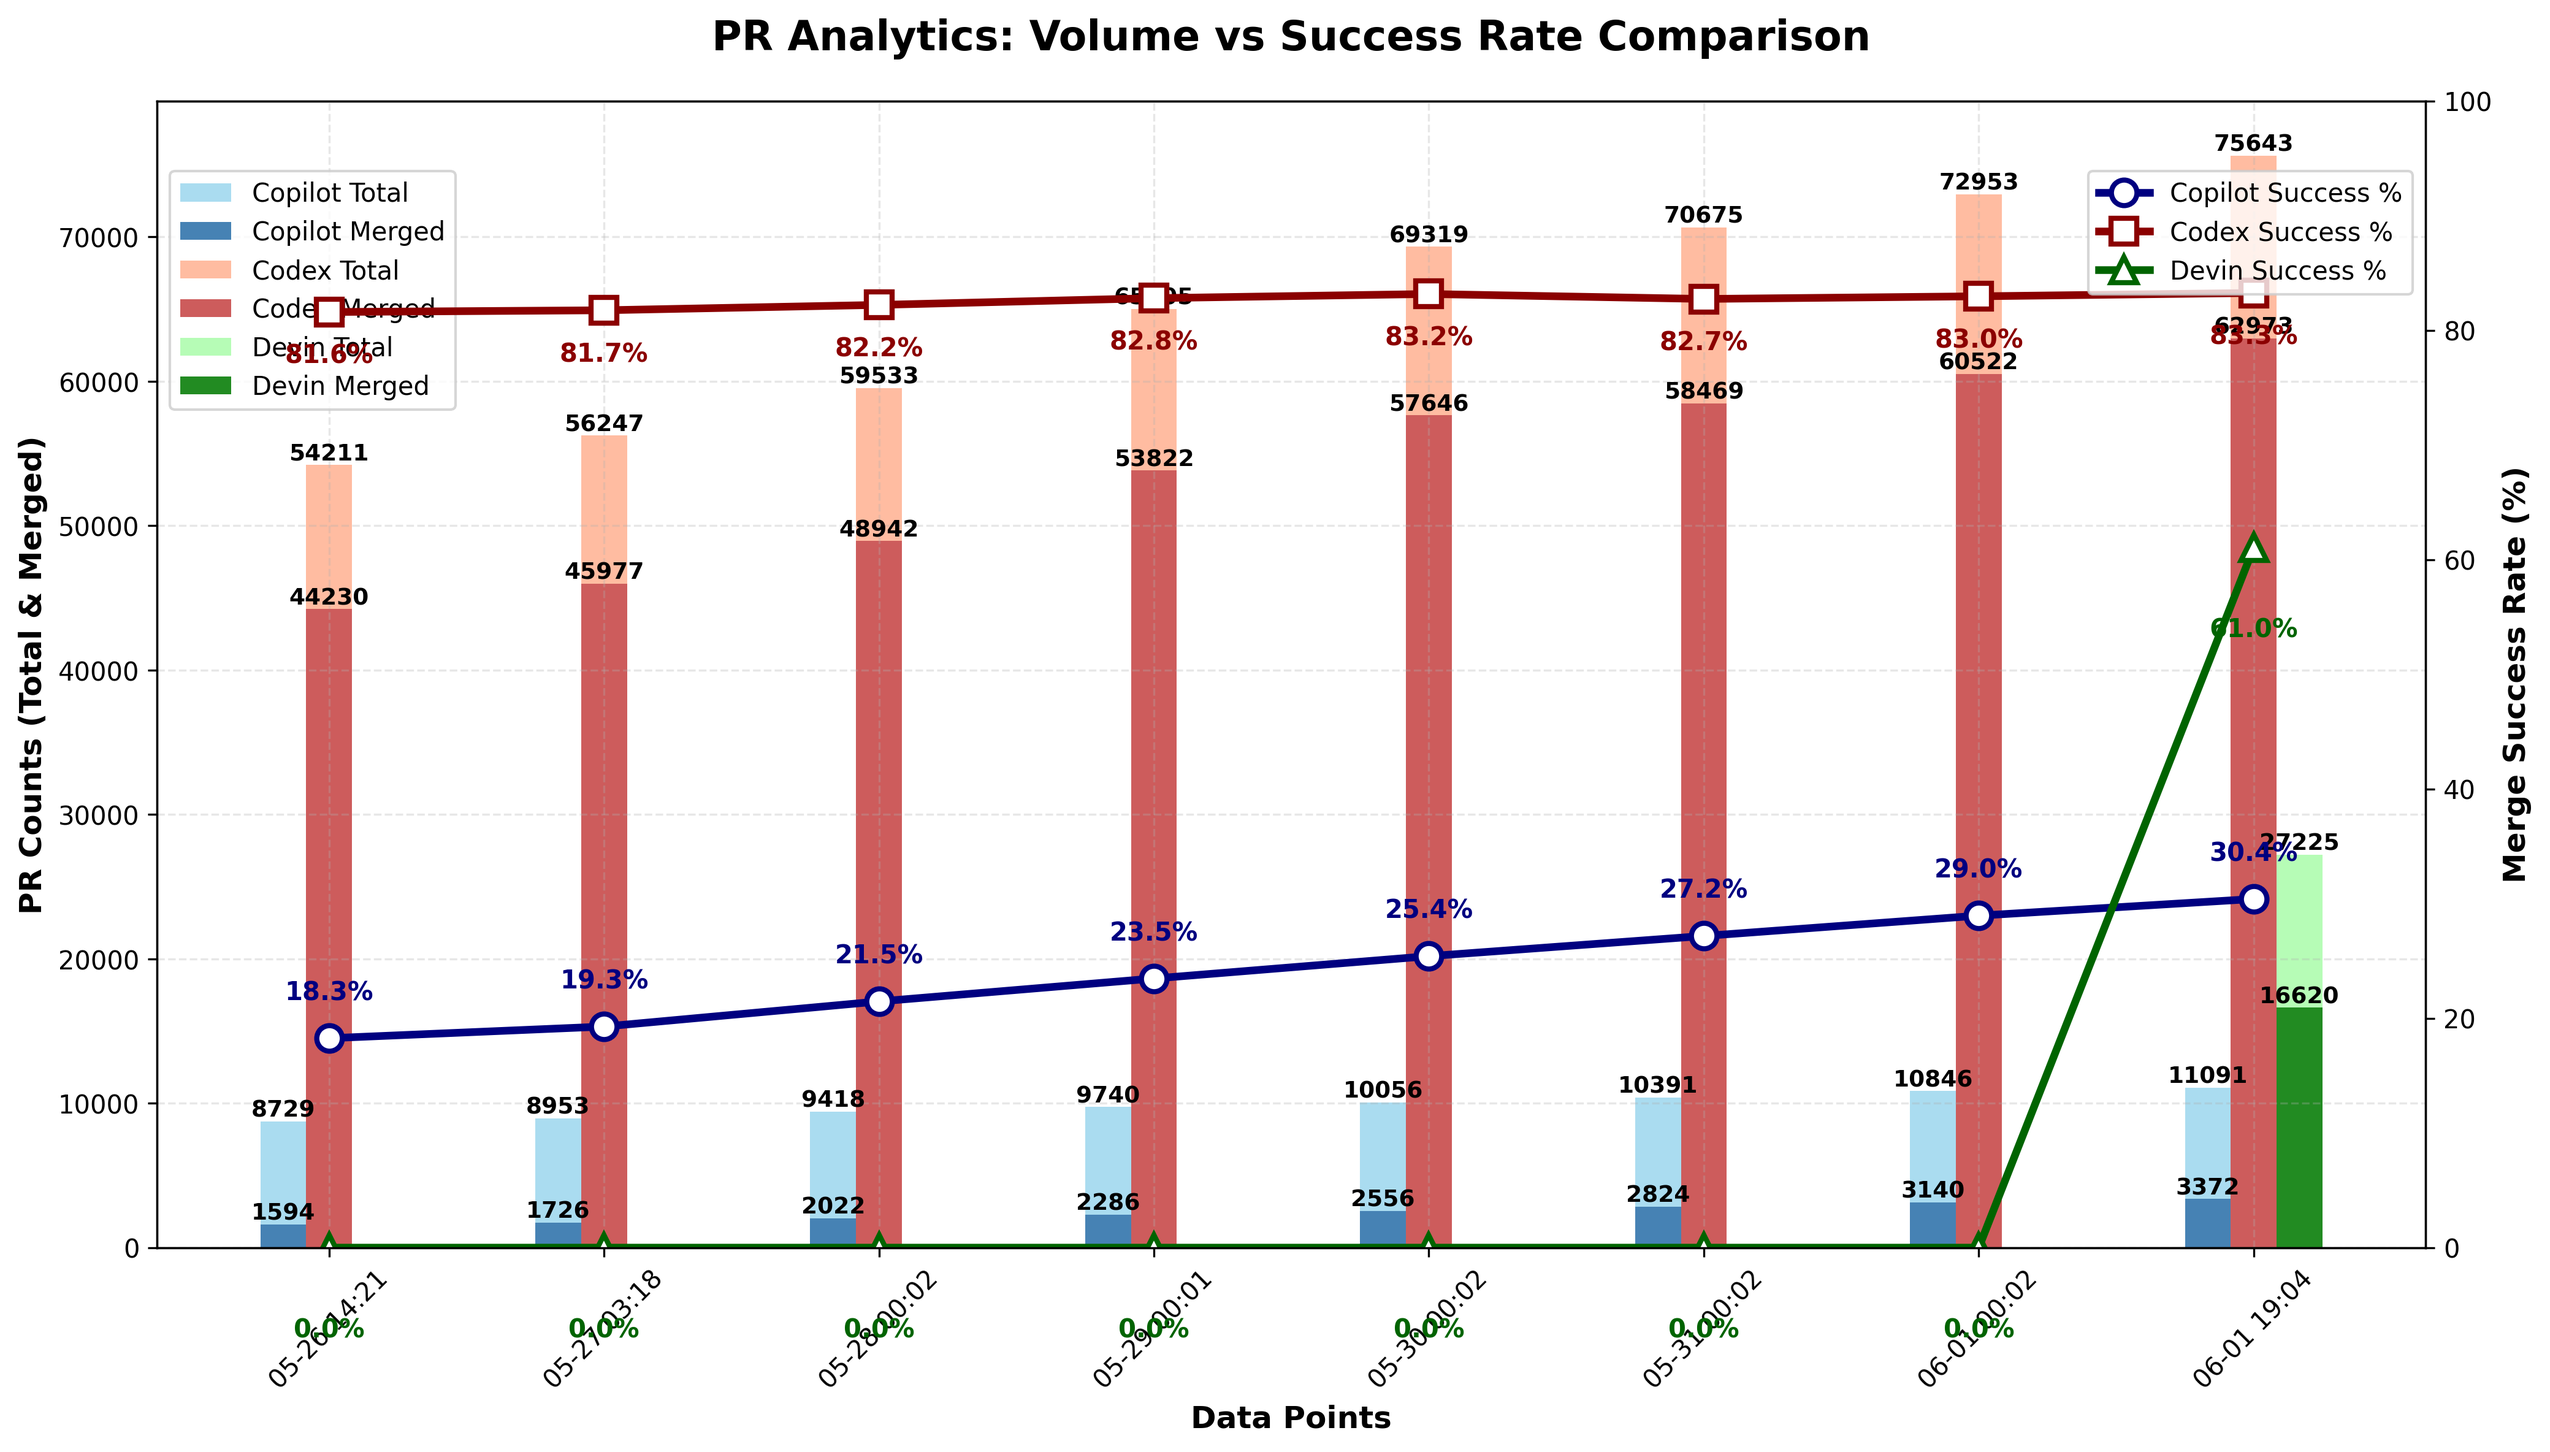
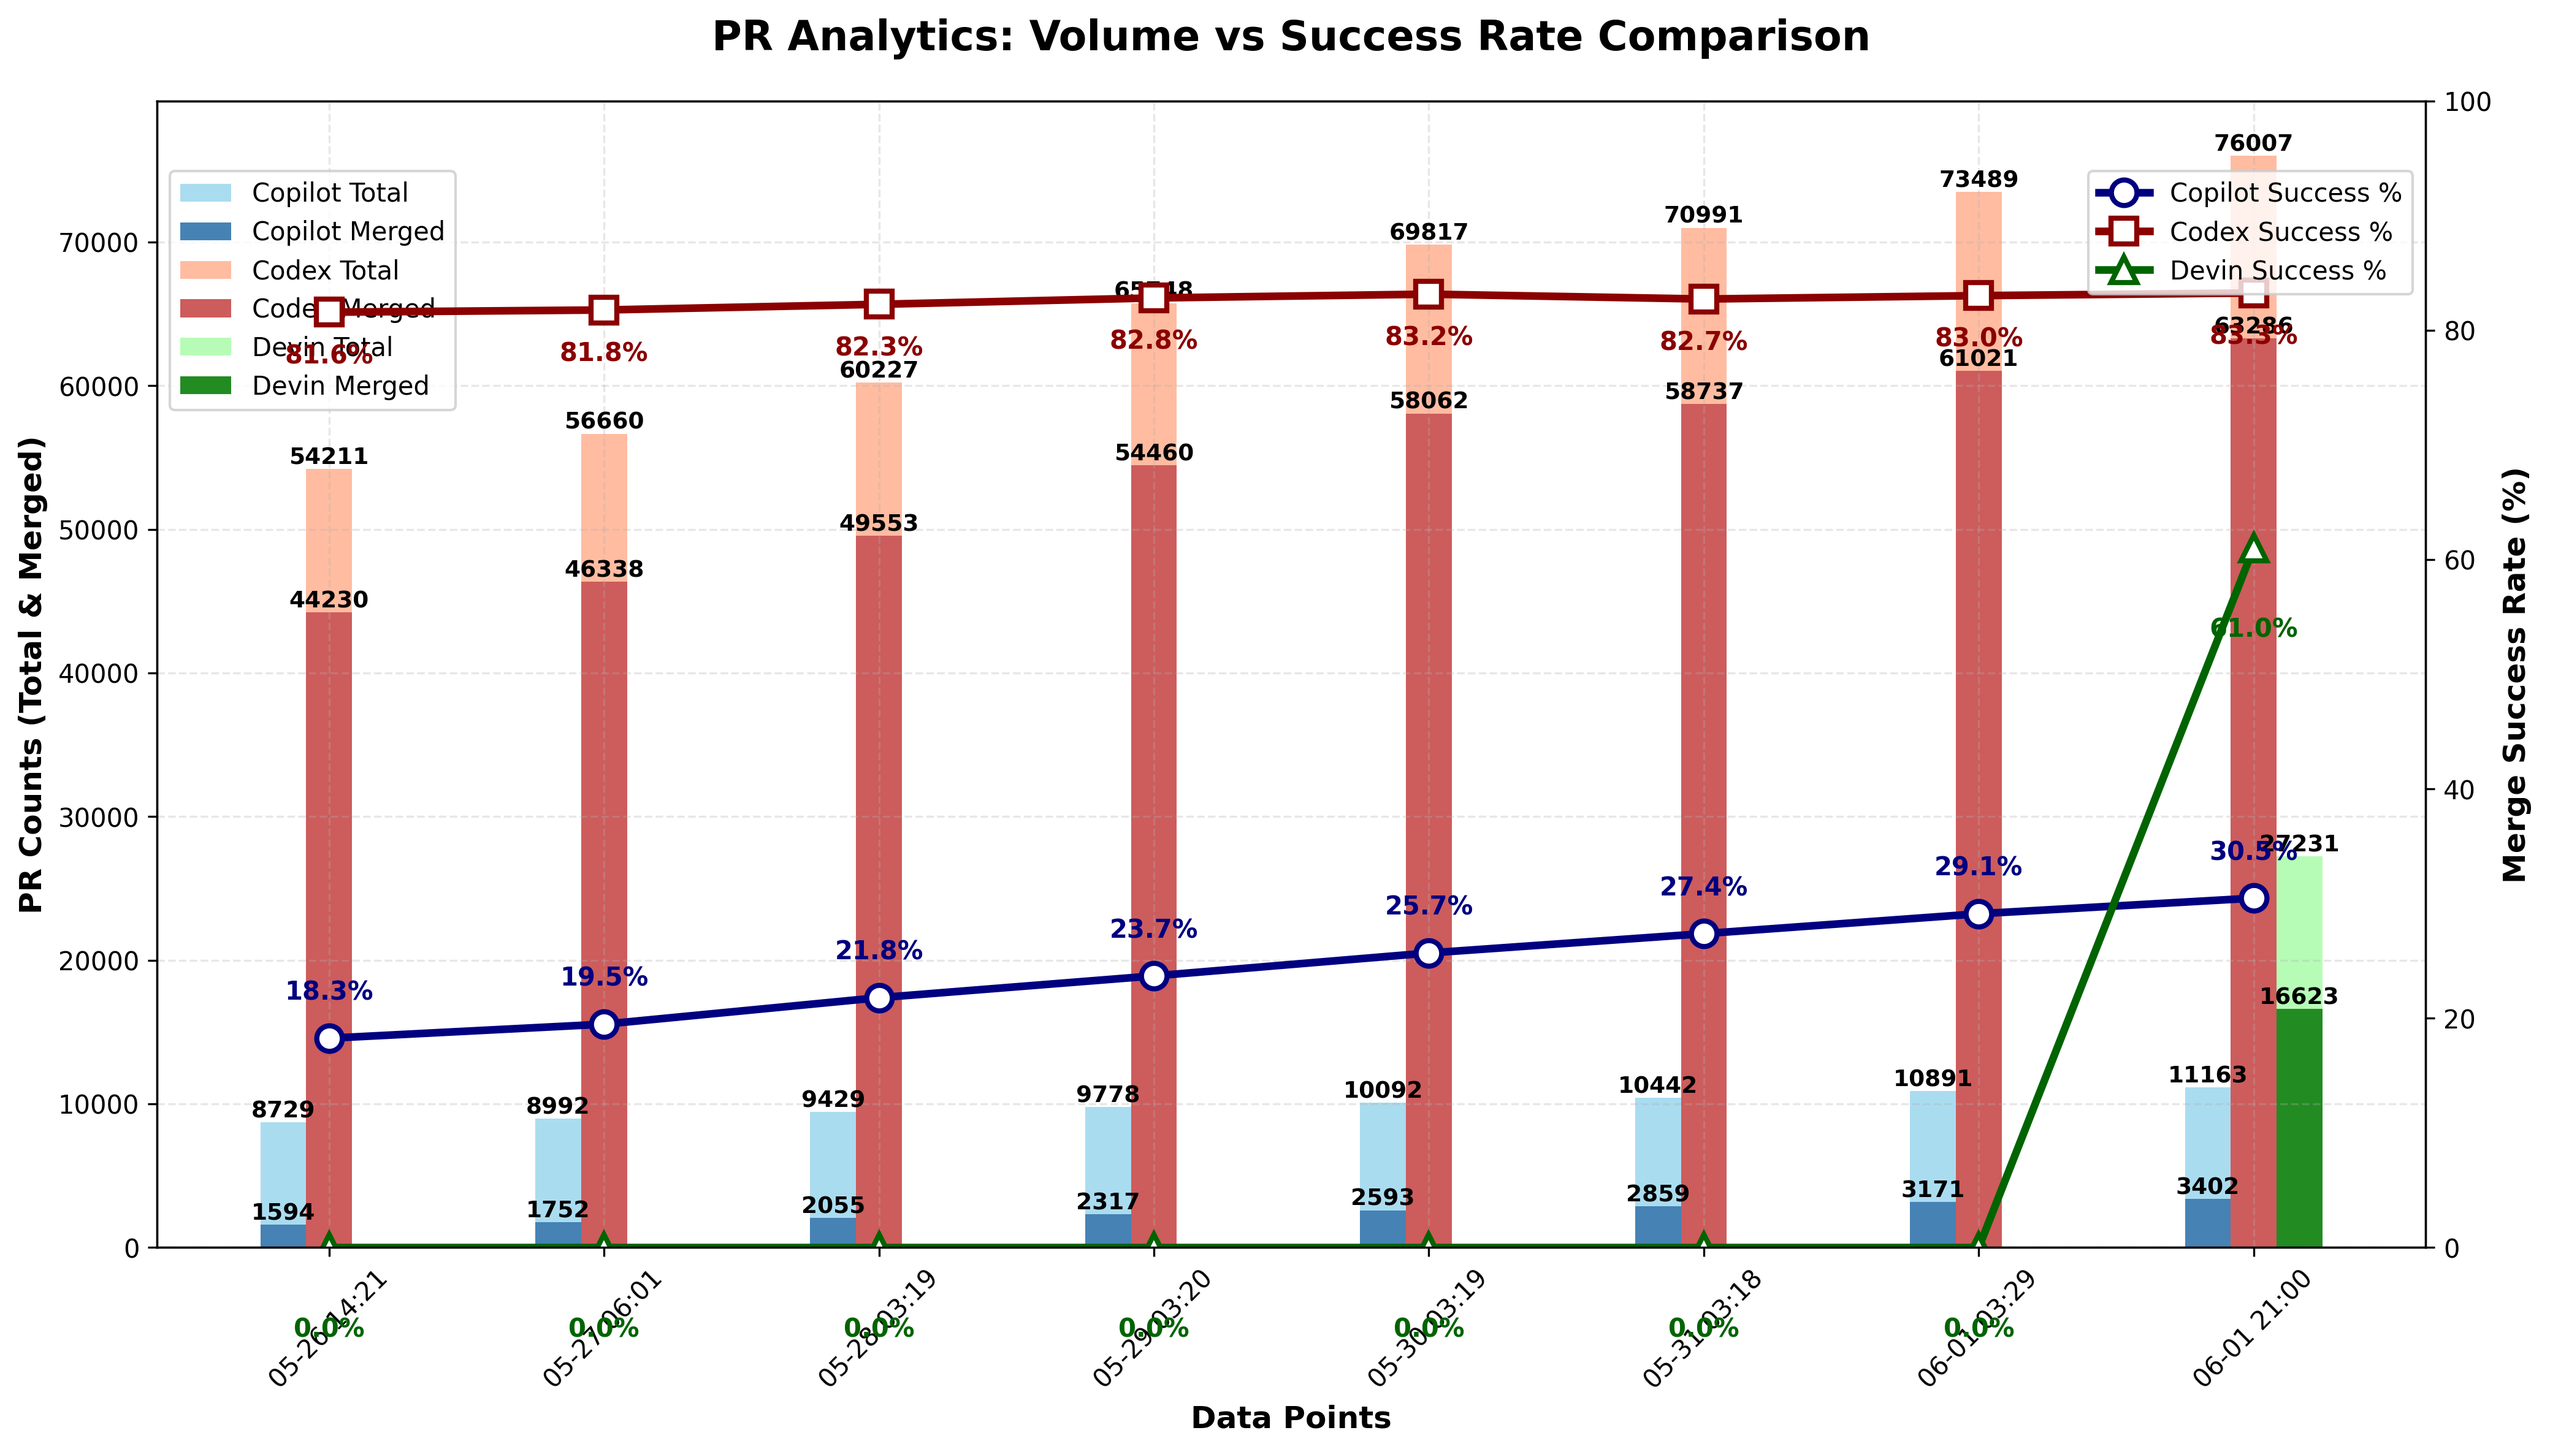
chore: update PR‑approval chart

diff --git a/docs/index.html b/docs/index.html
@@ -46,22 +46,22 @@
                 <tbody>
                     <tr>
                         <td>Copilot</td>
-                        <td>11,091</td>
-                        <td>3,372</td>
-                        <td>30.40%</td>
+                        <td>11,163</td>
+                        <td>3,402</td>
+                        <td>30.48%</td>
                     </tr>
                     <tr>
                         <td>Codex</td>
-                        <td>75,643</td>
-                        <td>62,973</td>
-                        <td>83.25%</td>
+                        <td>76,007</td>
+                        <td>63,286</td>
+                        <td>83.26%</td>
                     </tr>
                 </tbody>
             </table>
         </section>
 
         <footer>
-            <p>Last updated: <span id="last-updated">June 01, 2025 19:06 UTC</span></p>
+            <p>Last updated: <span id="last-updated">June 01, 2025 21:00 UTC</span></p>
             <p><a href="https://github.com/aavetis/ai-pr-watcher">View on GitHub</a></p>
         </footer>
     </div>

diff --git a/README.md b/README.md
@@ -19,6 +19,6 @@ Explore the GitHub search queries used:
 
 | Project | Total PRs | Merged PRs | Merge Rate |
 | ------- | --------- | ---------- | ---------- |
-| Copilot | 11,091 | 3,372 | 30.40% |
-| Codex   | 75,643 | 62,973 | 83.25% |
-| Devin   | 27,225 | 16,620 | 61.05% |
+| Copilot | 11,163 | 3,402 | 30.48% |
+| Codex   | 76,007 | 63,286 | 83.26% |
+| Devin   | 27,231 | 16,623 | 61.04% |
